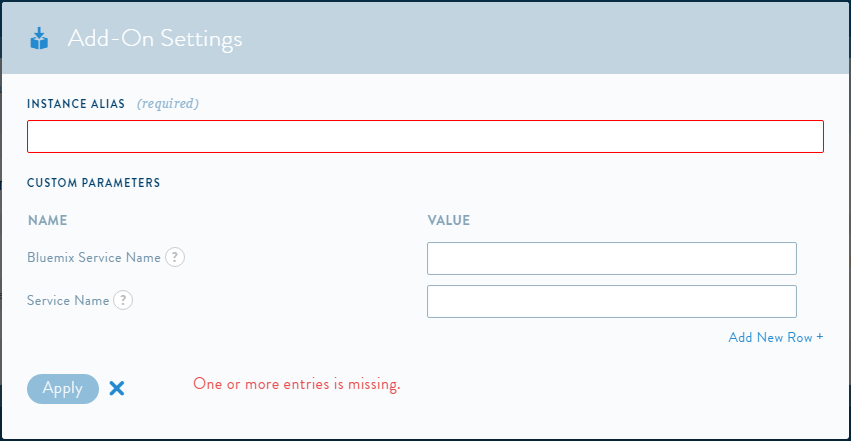
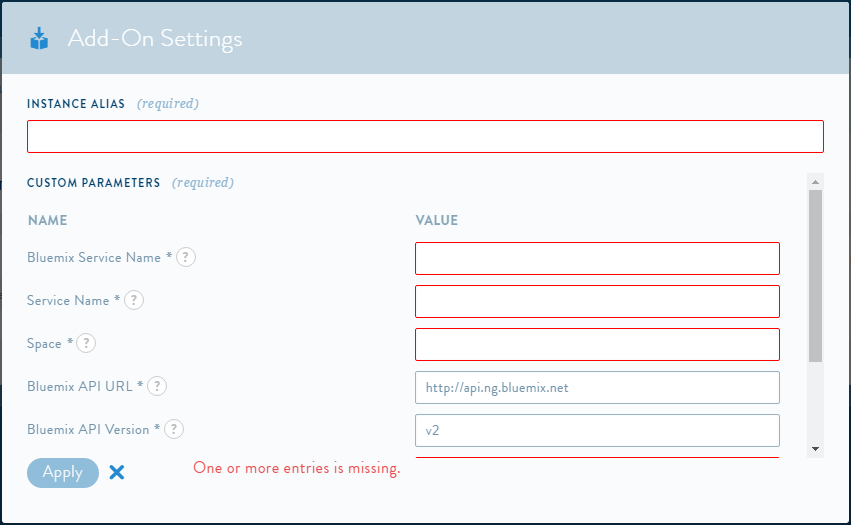
made only developer parameters (ie. no SOC properties)

diff --git a/src/BluemixAddon/BluemixAddon.cs b/src/BluemixAddon/BluemixAddon.cs
@@ -21,11 +21,6 @@ namespace Apprenda.Bluemix.AddOn
 
         public override OperationResult Deprovision(AddonDeprovisionRequest _request)
         {
-            /*The Deprovision method allows you to specify the steps taken when a developer deprovisions his/her Add-On. 
-             * You should use this step to clean up any provisioned artifacts. The connectiondata object inside the request should
-             * have all the information needed to clean up the provisioned resource. 
-             * At the end, you can return whether the operation was successful or not as shown in the sample below*/
-
             var deprovisionResult = new OperationResult { EndUserMessage = string.Empty, IsSuccess = false };
 
             var manifest = _request.Manifest;
@@ -37,7 +32,7 @@ namespace Apprenda.Bluemix.AddOn
 
             try
             {
-                var token = authenticate(manifest.ProvisioningUsername, manifest.ProvisioningPassword);
+                var token = authenticate(devOptions.bluemixuser, devOptions.bluemixpass);
                 string name = devOptions.name;
                 var serviceGUID = getServiceGUID(token, name);
                 var status = deleteServiceInstance(token, name, serviceGUID);
@@ -57,12 +52,6 @@ namespace Apprenda.Bluemix.AddOn
 
         public override ProvisionAddOnResult Provision(AddonProvisionRequest _request)
         {
-            /*The Provision method provisions the instance for the service you are setting up. Within this method, you can access the information
-             requested from the developer (if any) by iterating through the request.DeveloperParameters object.
-             * At the end of the provisioning process, simply return the connection information for the service that was provisioned.*/
-            //Retrieving developer parameters
-            //var parameter = request.DeveloperParameters.First(param => param.Key == "RequiredParameter");
-
             var provisionResult = new ProvisionAddOnResult(string.Empty) { IsSuccess = false };
 
             var manifest = _request.Manifest;
@@ -76,11 +65,11 @@ namespace Apprenda.Bluemix.AddOn
 
             try
             {
-                var token = authenticate(manifest.ProvisioningUsername, manifest.ProvisioningPassword);
-                var servicePlansURL = getServicePlansURL(token, devOptions.servicename); //"watson_vision_combined"
+                var token = authenticate(devOptions.bluemixuser, devOptions.bluemixpass);
+                var servicePlansURL = getServicePlansURL(token, devOptions.servicename);
                 var servicePlanGUID = getServicePlanGUID(token, servicePlansURL);
                 string name = devOptions.name;
-                var spaceGUID = getSpaceGuid(token, devOptions.space); //"dev"
+                var spaceGUID = getSpaceGuid(token, devOptions.space);
                 var serviceInstanceGUID = createServiceInstance(token, name, servicePlanGUID, spaceGUID);
                 instanceDetails = createInstanceDetails(token, name, serviceInstanceGUID);
                 log.Info("BluemixAddon Provisioned Successfully");
@@ -99,9 +88,6 @@ namespace Apprenda.Bluemix.AddOn
 
         public override OperationResult Test(AddonTestRequest _request)
         {
-            /*The test method allows you to test whether the Add-On was developed and configured properly and that any dependent systems are
-             operating normally. During this method, you will want to go through a similar workflow to Provision to ensure proper functioning
-             * of the Add-On.*/
             var manifest = _request.Manifest;
             var devParameters = _request.DeveloperParameters;
             var devOptions = BMDeveloperOptions.Parse(devParameters, manifest);
@@ -112,7 +98,7 @@ namespace Apprenda.Bluemix.AddOn
 
             try
             {
-                var token = authenticate(manifest.ProvisioningUsername, manifest.ProvisioningPassword);
+                var token = authenticate(devOptions.bluemixuser, devOptions.bluemixpass);
                 var servicePlansURL = getServicePlansURL(token, devOptions.servicename);
             }
             catch (Exception ex)
@@ -303,16 +289,5 @@ namespace Apprenda.Bluemix.AddOn
             }
 
         }
-
-        public string flattenJSON(JObject json)
-        {
-            var flattenedJSON = string.Empty;
-            foreach(var item in json)
-            {
-                flattenedJSON = flattenedJSON + ';' + item;
-            }
-            return flattenedJSON;
-        }
-
     }
 }

diff --git a/src/BluemixAddon/BMDeveloperOptions.cs b/src/BluemixAddon/BMDeveloperOptions.cs
@@ -10,6 +10,8 @@ namespace Apprenda.Bluemix.AddOn
 {
     class BMDeveloperOptions
     {
+        public string bluemixuser { get; set; }
+        public string bluemixpass { get; set; }
         public string space { get; set; }
         public string api_url { get; set; }
         public string api_version { get; set; }

diff --git a/README.md b/README.md
@@ -11,21 +11,14 @@ The Apprenda Bluemix Add-on allows developers to provision IBM Bluemix Services 
 
 
 ## Usage
-1. In the SOC, go to "Configuration->Platform Addons->Edit"
+1. Go to the Apprenda Developer Portal and click Addons on the left side.
 2. Enter your IBM Bluemix credentials on the general page.       
-    ![](/readme_images/bluemixaddon_general.png)
-
-
 3. On the configuration tab, enter your Bluemix "space" that defines where your app will be deployed within Bluemix. 
 4. Add the current "Bluemix API URL"(ie. "http://api.ng.bluemix.net") and the API Version (ie. "v2")  
-    ![](/readme_images/bluemixaddon_config.png)
-
-
-5. Next, go to the Apprenda Developer Portal and click Addons on the left side.
-6. Click on the Bluemix Add-on and click the "+" symbol to provision an instance of the Add-on
-    1. Enter in the "Instance Alias" (how Apprenda will identify your add-on instance)
-    2. Enter the "Bluemix Service Name" as defined by Bluemix. This can be found by calling the "https://api.ng.bluemix.net/v2/services" endpoint for a complete list.
-    3. Enter the "Service Name". This is the name of your service within Bluemix itself. 
+5. Click on the Bluemix Add-on and click the "+" symbol to provision an instance of the Add-on
+6. Enter in the "Instance Alias" (how Apprenda will identify your add-on instance)
+7. Enter the "Bluemix Service Name" as defined by Bluemix. This can be found by calling the "https://api.ng.bluemix.net/v2/services" endpoint for a complete list.
+8. Enter the "Service Name". This is the name of your service within Bluemix itself. 
 
     ```cs
     //Example C# API call for services
@@ -36,6 +29,5 @@ The Apprenda Bluemix Add-on allows developers to provision IBM Bluemix Services 
     IRestResponse response = client.Execute(request);
     ```
     
-    ![](/readme_images/bluemixaddon_provision.png)
+![](/readme_images/bluemixaddon_provision.png)
 
-7. If you'd like to check if your "Bluemix Service Name" is correct, go back to the Add-ons section in the SOC and click the test button (only enter the "Bluemix Service Name"). 
